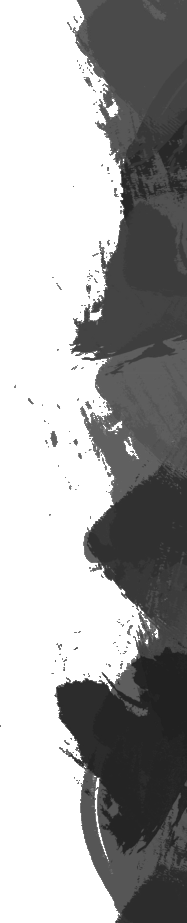
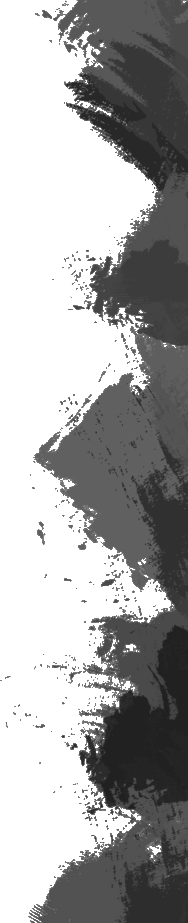
Slides

diff --git a/src/components/Slides/Slides.scss b/src/components/Slides/Slides.scss
@@ -1,0 +1,143 @@
+.slides {
+    width: 100%;
+    background: url(../../assets/images/backgrounds/backgroundWhite.webp);
+    background-position: center;
+    background-attachment: fixed;
+    background-size: cover;
+    overflow: hidden;
+    position: relative;
+
+    &__deco {
+        width: 100%;
+        height: 100%;
+        position: absolute;
+        z-index: 1;
+        display: flex;
+        flex-direction: row;
+        justify-content: space-between;
+        pointer-events: none;
+    }
+
+    &__carousel {
+        width: 100%;
+        height: 100%;
+        background-color: $main-color;
+        padding: calc(4px + 1vw);
+        border: calc(1px + 1vw) solid $dark-color;
+        box-shadow: 0 0 20px rgba(0, 0, 0, 0.5);
+
+        & .carousel-indicators {
+            bottom: 2%;
+            margin-bottom: 0;
+
+            & button {
+                border-radius: 50%;
+                width: 10px;
+                height: 10px;
+                margin-left: 5px;
+                margin-right: 5px;
+                background-color: $transparent-color;
+                border: 3px solid $light-color;
+                box-shadow:  0 4px 4px rgba(0, 0, 0, 0.5);
+
+                @media screen and (max-width: 767px) {
+                    width: 7px;
+                    height: 7px;
+                    margin-left: 3px;
+                    margin-right: 3px;
+                    border: 2px solid $light-color;
+                    box-shadow:  0 3px 3px rgba(0, 0, 0, 0.5);
+                }
+
+                @media screen and (max-width: 575px) {
+                    width: 5px;
+                    height: 5px;
+                    margin-left: 2px;
+                    margin-right: 2px;
+                    border: 1.5px solid $light-color;
+                    box-shadow:  0 2px 2px rgba(0, 0, 0, 0.5);
+                }
+
+                &.active {
+                    background-color: gray;
+                    transform: scale(1.2);
+                }
+            }
+        }
+
+        & .carousel-inner {
+
+            & video {
+                width: 100%;
+                max-height: 700px;
+                height: 100%;
+            }
+
+            &::after{
+                content: none;
+            }
+        }
+
+        & a {
+            top: 45%;
+            width: unset;
+            height: fit-content;
+            filter: drop-shadow(0 4px 4px rgba(0, 0, 0, 1));
+            opacity: unset;
+
+            @media screen and (max-width: 767px) {
+                width: 24px;
+            }
+
+            @media screen and (max-width: 575px) {
+                width: 16px;
+            }
+        }
+
+        & .carousel-control-prev-icon {
+            animation: bouncePrev 3s infinite forwards;
+        }
+
+        & .carousel-control-next-icon {
+            animation: bounceNext 3s infinite forwards;
+        }
+    }
+}
+
+@keyframes bouncePrev {
+    0%,
+    20%,
+    50%,
+    80%,
+    100% {
+      opacity: 1;
+      transform: translateX(0);
+    }
+    40% {
+      opacity: 1;
+      transform: translateX(10px);
+    }
+    60% {
+      opacity: 1;
+      transform: translateX(5px);
+    }
+  }
+  
+  @keyframes bounceNext {
+    0%,
+    20%,
+    50%,
+    80%,
+    100% {
+      opacity: 1;
+      transform: translateX(0);
+    }
+    40% {
+      opacity: 1;
+      transform: translateX(-10px);
+    }
+    60% {
+      opacity: 1;
+      transform: translateX(-5px);
+    }
+  }

diff --git a/src/components/Slides/Slides.jsx b/src/components/Slides/Slides.jsx
@@ -1,0 +1,59 @@
+import React, { useState } from 'react'
+import { Carousel } from "react-bootstrap";
+
+import DecoLeft from "../../assets/images/backgrounds/decoration.webp"
+import DecoRight from "../../assets/images/backgrounds/decoration1.webp"
+
+import video from "../../assets/images/slides/video.mp4"
+import video1 from "../../assets/images/slides/video1.mp4"
+
+export default function Slides() {
+    const [currentVideo, setCurrentVideo] = useState(null);
+
+    const videos = [{ src: video }, { src: video1 }];
+
+    const handleVideoPlay = (index) => {
+        if (currentVideo !== null && currentVideo !== index) {
+            const currentVideoElement = document.getElementById(`video-${currentVideo}`);
+            if (currentVideoElement) {
+                currentVideoElement.pause();
+            }
+        }
+        setCurrentVideo(index);
+    }
+
+    return (
+        <section className="slides" id="slides">
+            <div className="slides__deco">
+                <img src={DecoLeft} alt="left abstract decoration" />
+                <img src={DecoRight} alt="right abstract decoration" />
+            </div>
+            <div className="container-fluid p-0">
+                <div className="row m-0 align-items-center justify-content-center">
+                    <div className="col-4 p-0">
+                        <h2 className="fw-bold text-center my-md-4 my-2">Diapo</h2>
+                        <div className="row justify-content-center">
+                            <Carousel
+                                className="slides__carousel my-4"
+                                onClick={() => handleVideoPlay(null)}
+                            >
+                                {videos.map((video, index) => (
+                                    <Carousel.Item key={index}>
+                                        <video
+                                            controls
+                                            id={`video-${index}`}
+                                            onPlay={() => handleVideoPlay(index)}
+                                        >
+                                            <source src={video.src} type="video/mp4" />
+                                            Votre navigateur ne prend pas en charge la balise video.
+                                        </video>
+                                    </Carousel.Item>
+                                ))}
+                            </Carousel>
+                        </div>
+                    </div>
+                </div>
+            </div>
+        </section>
+    )
+}

diff --git a/src/components/Nav/Nav.scss b/src/components/Nav/Nav.scss
@@ -5,19 +5,19 @@
     background-size: cover;
 
     &__brand h1 {
-        color: #f9fafa;
+        color: $main-color;
         font-family: 'Kalnia', serif;
         font-size: calc(1.375rem + 3vw);
         text-shadow: 0 4px 4px rgba(0, 0, 0, 1);
     }
 
     &__btn {
-        background-color: #f9fafa;
+        background-color: $main-color;
         font-size: inherit;
     }
 
     &__link {
-        color: #f9fafa;
+        color: $main-color;
         font-size: 20px;
 
         @media screen and (max-width: 767px) {
@@ -29,7 +29,7 @@
         }
 
         &:hover {
-            color: #f9fafa;
+            color: $main-color;
             mask-image: linear-gradient(-75deg, rgba(0,0,0,.6) 30%, #000 50%, rgba(0,0,0,.6) 70%);
             mask-size: 200%;
             animation: shine 2s infinite;

diff --git a/src/sass/main.scss b/src/sass/main.scss
@@ -1,12 +1,31 @@
 @import url("https://fonts.googleapis.com/css2?family=Playfair+Display&family=Kalnia&display=swap");
-
-
+@import "../sass/utils/variables";
 
 @import "../components/Header/Header.scss";
 @import "../components/Nav/Nav.scss";
 @import "../components/Banner/Banner.scss";
 
+@import "../components/Slides/Slides.scss";
+
 body {
     font-family: 'Playfair Display', serif;
     font-weight: bold;
+}
+
+h2 {
+    color: $dark-color;
+    font-size: calc(1.325rem + 1.25vw);
+
+    &::after {
+        content: "";
+        position: absolute;
+        left: 0;
+        right: 0;
+        margin: 0 auto;
+        width: 10%;
+        height: 3px;
+        background-color: $dark-color;
+        display: block;
+        margin-top: 10px;
+    }
 }

diff --git a/src/components/Banner/Banner.scss b/src/components/Banner/Banner.scss
@@ -47,7 +47,7 @@
   
   &__content {
     height: 100%;
-    color: #f9fafa;
+    color: $main-color;
   
     &__frame {
       position: absolute;
@@ -70,7 +70,7 @@
 
   &__socialNetworks {
     position: absolute;
-    bottom: 10px;
+    bottom: 24px;
 
     &__li:not(:last-child) {
       margin-right: 2rem;
@@ -88,7 +88,7 @@
       &__img {
         padding: 2px;
         border-radius: 50%;
-        background-color: #f9fafa;
+        background-color: $main-color;
         box-shadow: 0 0 10px 5px rgba(255, 255, 255, 0.5);
         transition: all 0.3s;
 

diff --git a/src/page/Home.jsx b/src/page/Home.jsx
@@ -1,9 +1,13 @@
 import Header from "../components/Header/Header";
+import Slides from "../components/Slides/Slides"
 
 export default function Home() {
     return (
         <>
             <Header />
+            <main>
+                <Slides />
+            </main>
         </>
     )
 }

diff --git a/src/sass/utils/_variables.scss b/src/sass/utils/_variables.scss
@@ -1,0 +1,4 @@
+$main-color: #f9fafa;
+$dark-color: black;
+$light-color: #fff;
+$transparent-color: #ffffff00;
